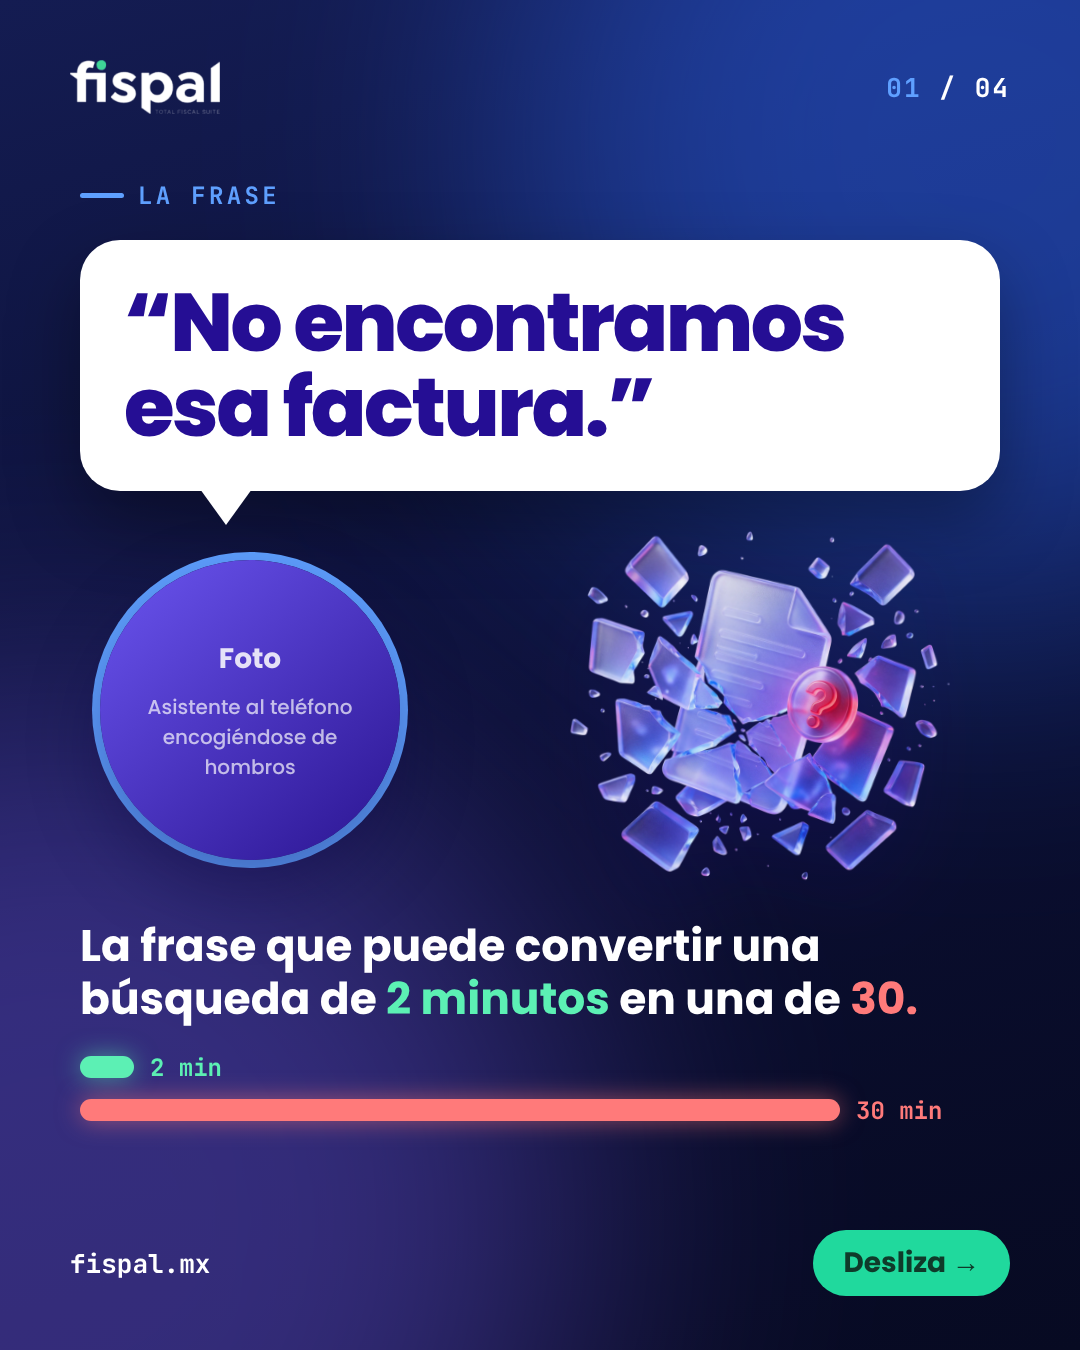
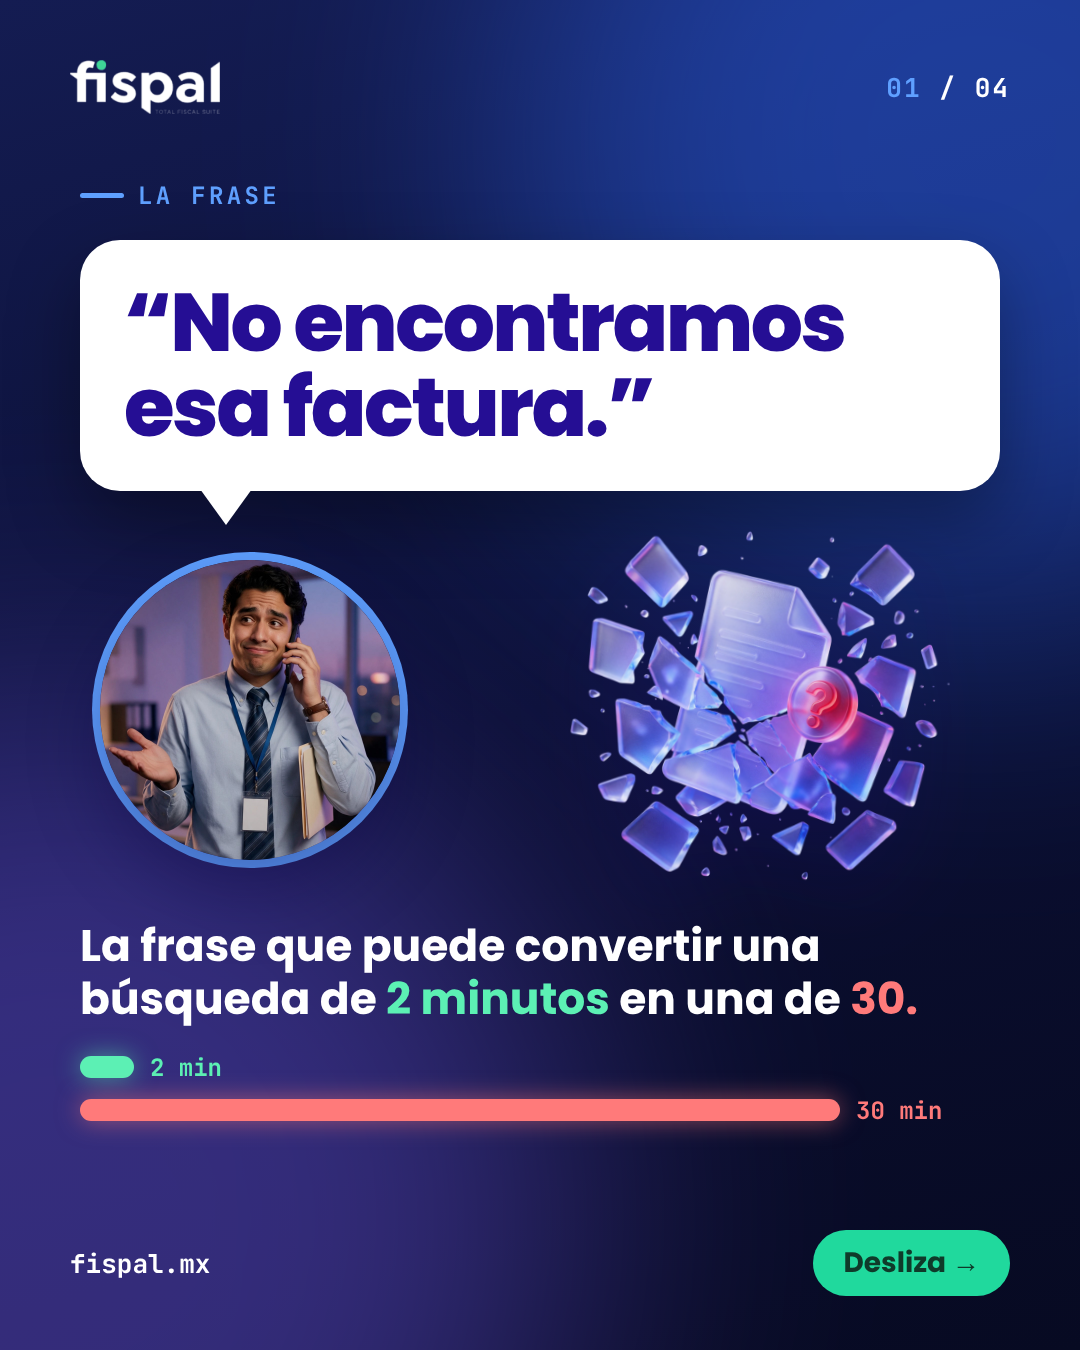
Fispal carrusel 6: fotos finales
Claude-Session: https://claude.ai/code/session_01NghCctPQaKXziVeL1FGG6n

Changed region(s): [[0.0917, 0.4044, 0.3667, 0.6533]]

diff --git a/editor/src/carruseles/C6Factura.tsx b/editor/src/carruseles/C6Factura.tsx
@@ -33,7 +33,7 @@ const S1: React.FC = () => (
       {/* bubble tail */}
       <div style={{ position: "absolute", left: 120, bottom: -34, width: 0, height: 0, borderLeft: "26px solid transparent", borderRight: "26px solid transparent", borderTop: "36px solid #fff" }} />
     </div>
-    <Photo name="c6-llamada" hint="Asistente al teléfono encogiéndose de hombros" position="50% 30%" radius="50%" ring={BLUE} style={{ left: L + 20, top: 560, width: 300, height: 300 }} />
+    <Photo name="c6-llamada" hint="Asistente al teléfono encogiéndose de hombros" position="50% 18%" radius="50%" ring={BLUE} style={{ left: L + 20, top: 560, width: 300, height: 300 }} />
     <Glass3D name="factura-rota" x={760} y={700} size={380} />
     <div style={{ position: "absolute", left: L, right: L, top: 920 }}>
       <div style={{ fontFamily: FONT, fontWeight: 700, fontSize: 44, lineHeight: 1.2, color: t.ink }}>
@@ -109,7 +109,7 @@ const S3: React.FC = () => (
 /* 4 — CTA: full-bleed photo fading into the night, centred close */
 const S4: React.FC = () => (
   <Frame t={t} i={3} n={N} last ribbon={false}>
-    <Photo name="c6-tablet" hint="Empresaria segura con tablet" position="50% 25%" radius={0} style={{ left: 0, right: 0, top: 0, height: 760, boxShadow: "none" }} />
+    <Photo name="c6-tablet" hint="Empresaria segura con tablet" position="50% 20%" radius={0} style={{ left: 0, right: 0, top: 0, height: 760, boxShadow: "none" }} />
     <div style={{ position: "absolute", left: 0, right: 0, top: 0, height: 200, background: "linear-gradient(180deg, rgba(11,15,51,.75), rgba(11,15,51,0))" }} />
     <div style={{ position: "absolute", left: 0, right: 0, top: 460, height: 310, background: "linear-gradient(180deg, rgba(11,15,51,0), #0B0F33 92%)" }} />
     <Glass3D name="factura-ok" x={880} y={570} size={280} />
